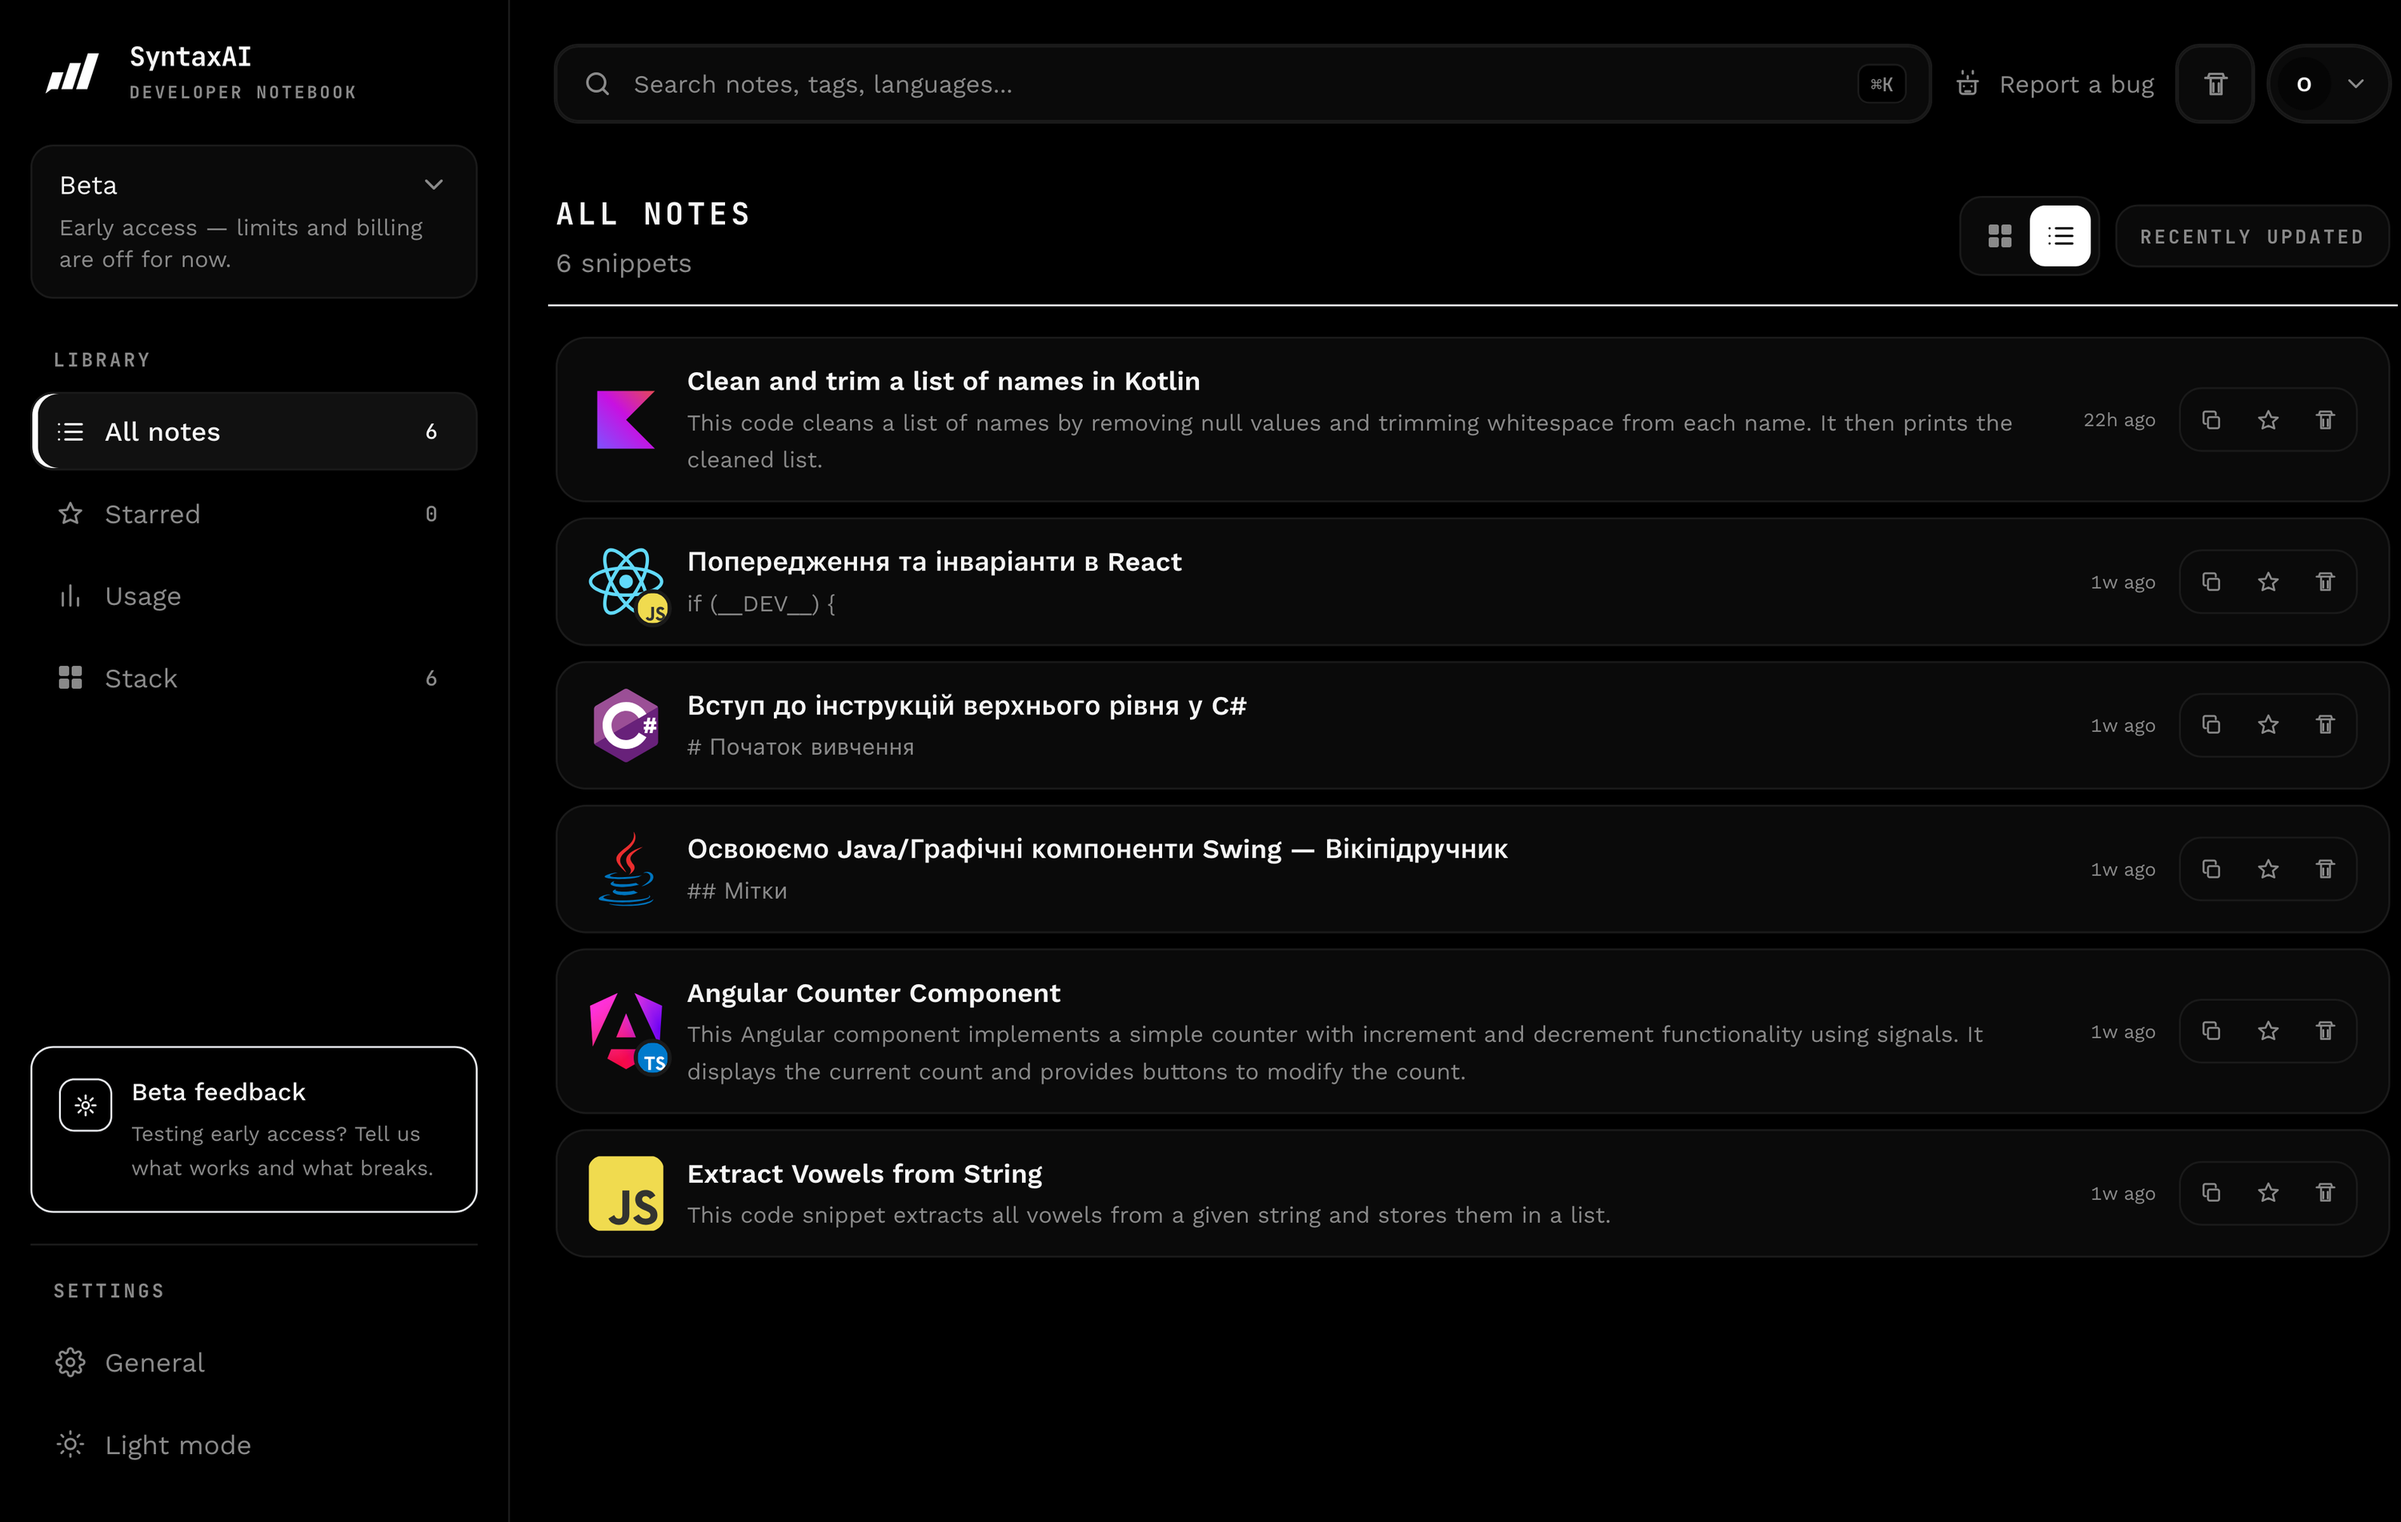
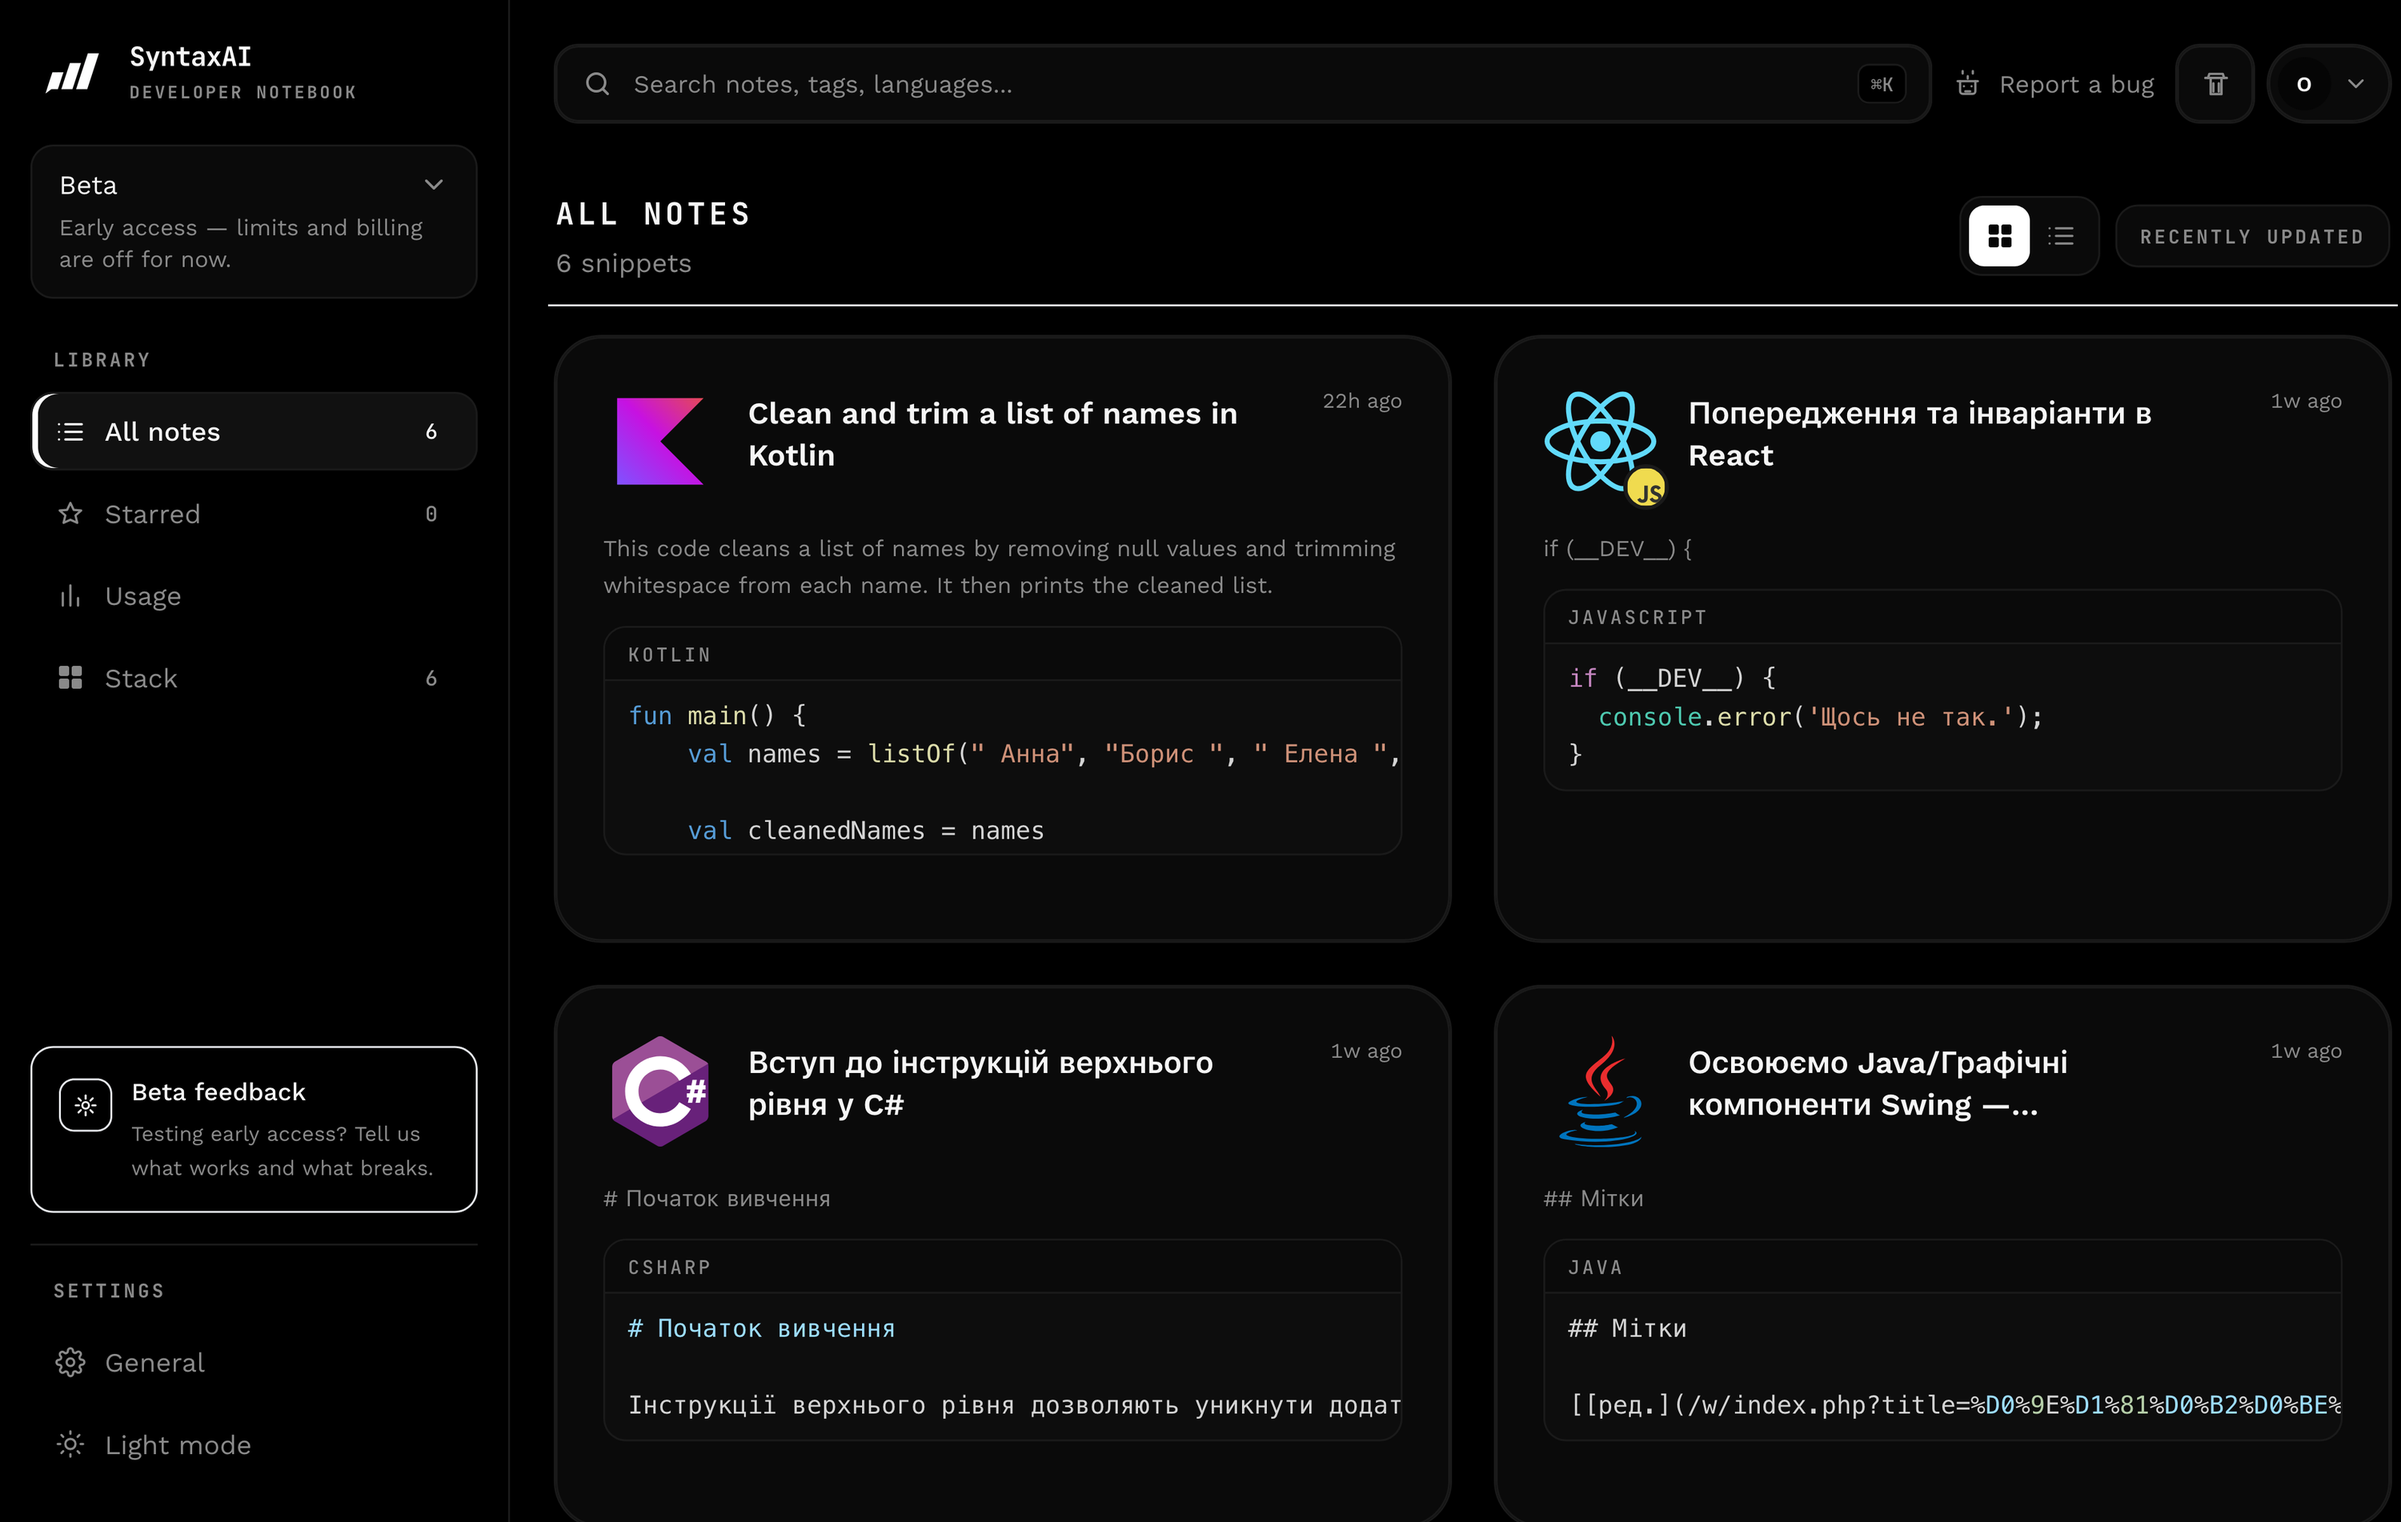
feat(web): library shot in grid view with code previews

diff --git a/src/lib/shots.ts b/src/lib/shots.ts
@@ -11,7 +11,7 @@ import stack from '@/assets/shots/stack.png';
 export const SHOTS = {
   library: {
     src: library,
-    alt: 'SyntaxAI dashboard: all notes as a list with technology icons, AI titles and summaries',
+    alt: 'SyntaxAI dashboard: all notes as cards with technology icons, AI titles, summaries and code previews',
   },
   stack: {
     src: stack,
